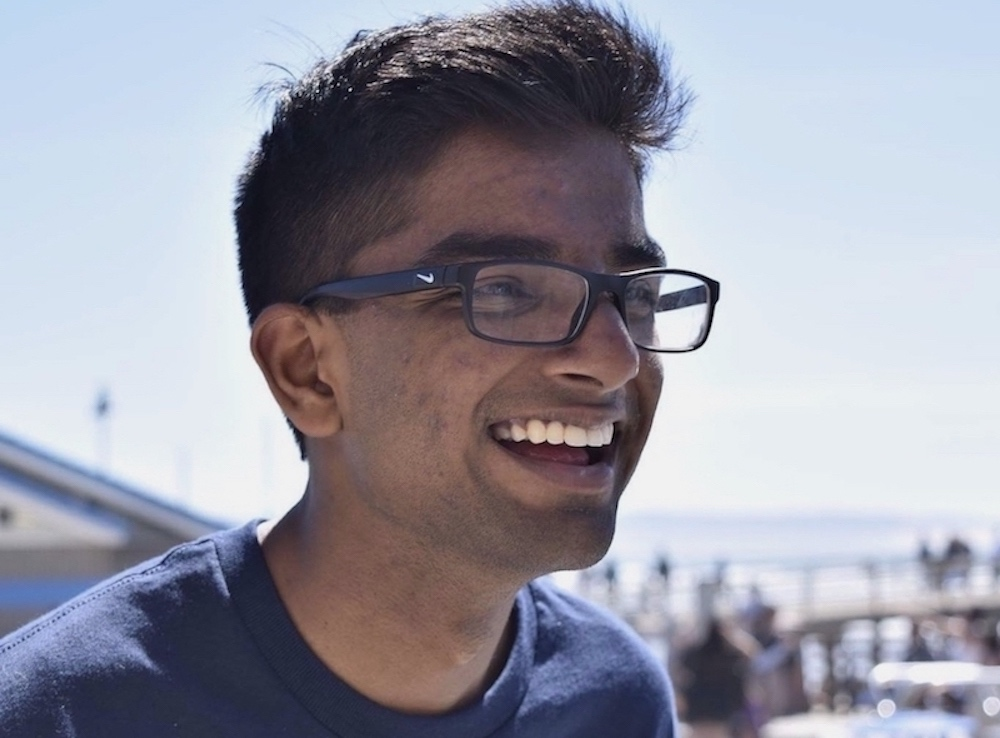
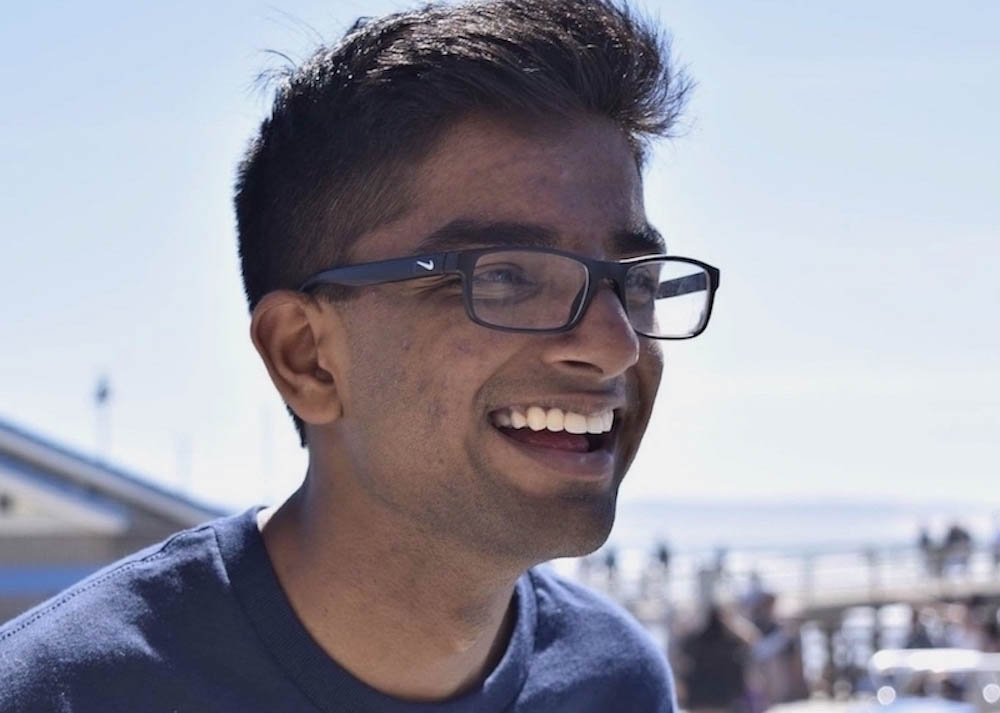
fix image responsiveness

diff --git a/templates/team.html b/templates/team.html
@@ -48,10 +48,11 @@
 
 
         <!-- Members -->
+        <div class="row">
     	{% for member in config['member'] %}
-	    	{% if loop.index % 3 == 1 or loop.first %}
+	    	<!-- {% if loop.index % 3 == 1 or loop.first %}
 	        <div class="row">
-	        {% endif %}
+	        {% endif %} -->
 	            <div class="col-md-4 col-sm-6">
 	                <div class="image-tile outer-title text-center">
                         <div class="custom__overlay">
@@ -81,12 +82,13 @@
 	                    </div>
 	                </div>
 	            </div>
-	        {% if loop.index % 3 == 0 or loop.last %}
+	       <!--  {% if loop.index % 3 == 0 or loop.last %}
 	        </div>
-	        {% endif %}
+	        {% endif %} -->
         <!--end of row-->
         {% endfor %}
         <!-- End of Members -->
+        </div>
 
     </div>
     <!--end of container-->

diff --git a/static/css/custom.css b/static/css/custom.css
@@ -75,9 +75,12 @@
 	transition-property: -webkit-transform;
 	transition-property: transform;
 	transition-property: transform, -webkit-transform;
-	height: 270px;
 	max-height: 270px !important;
 	max-width: 360px !important;
+	max-width: 100%; 
+	display:block; 
+	height: auto;
+
 }
 
 .custom__overlay:hover .custom__overlay__background {
